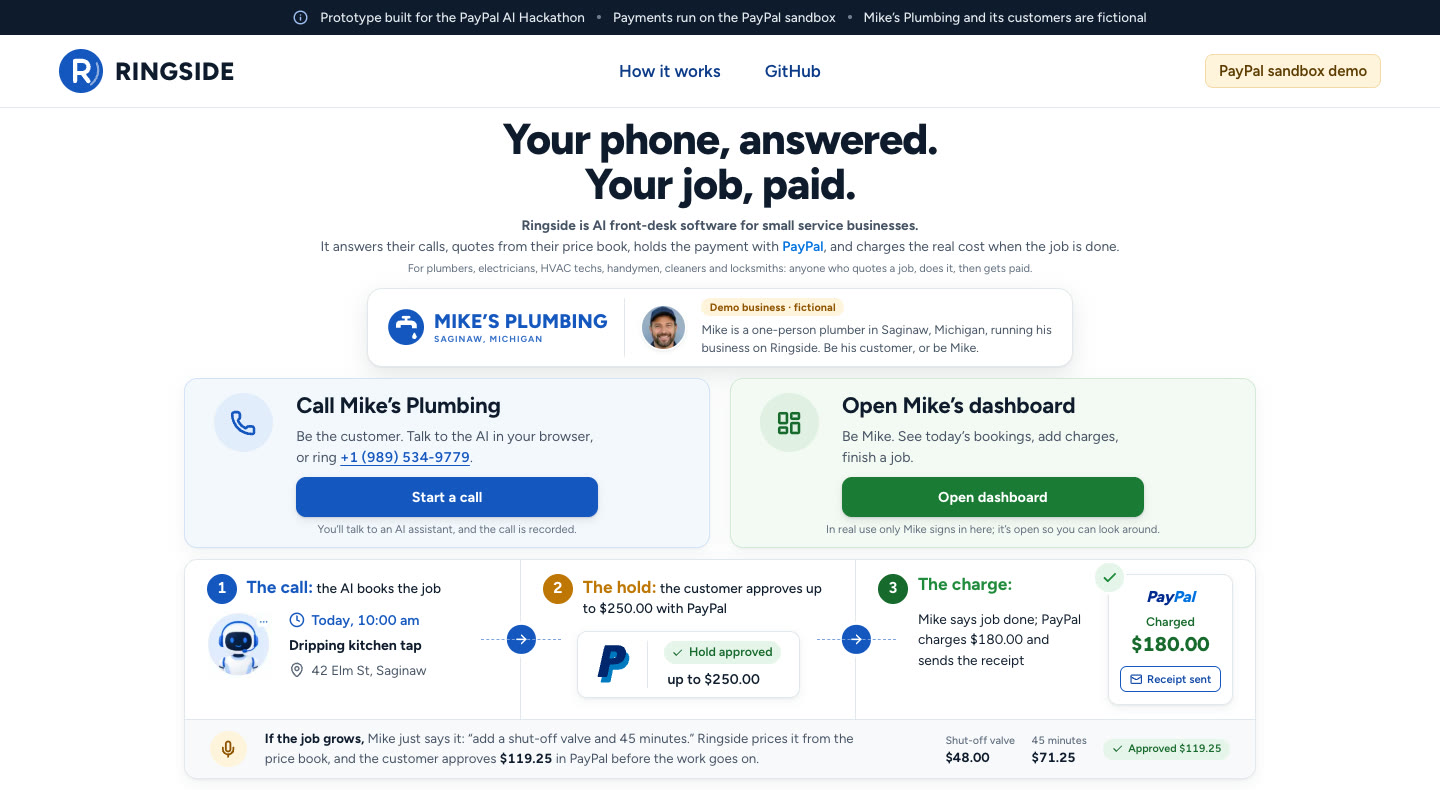
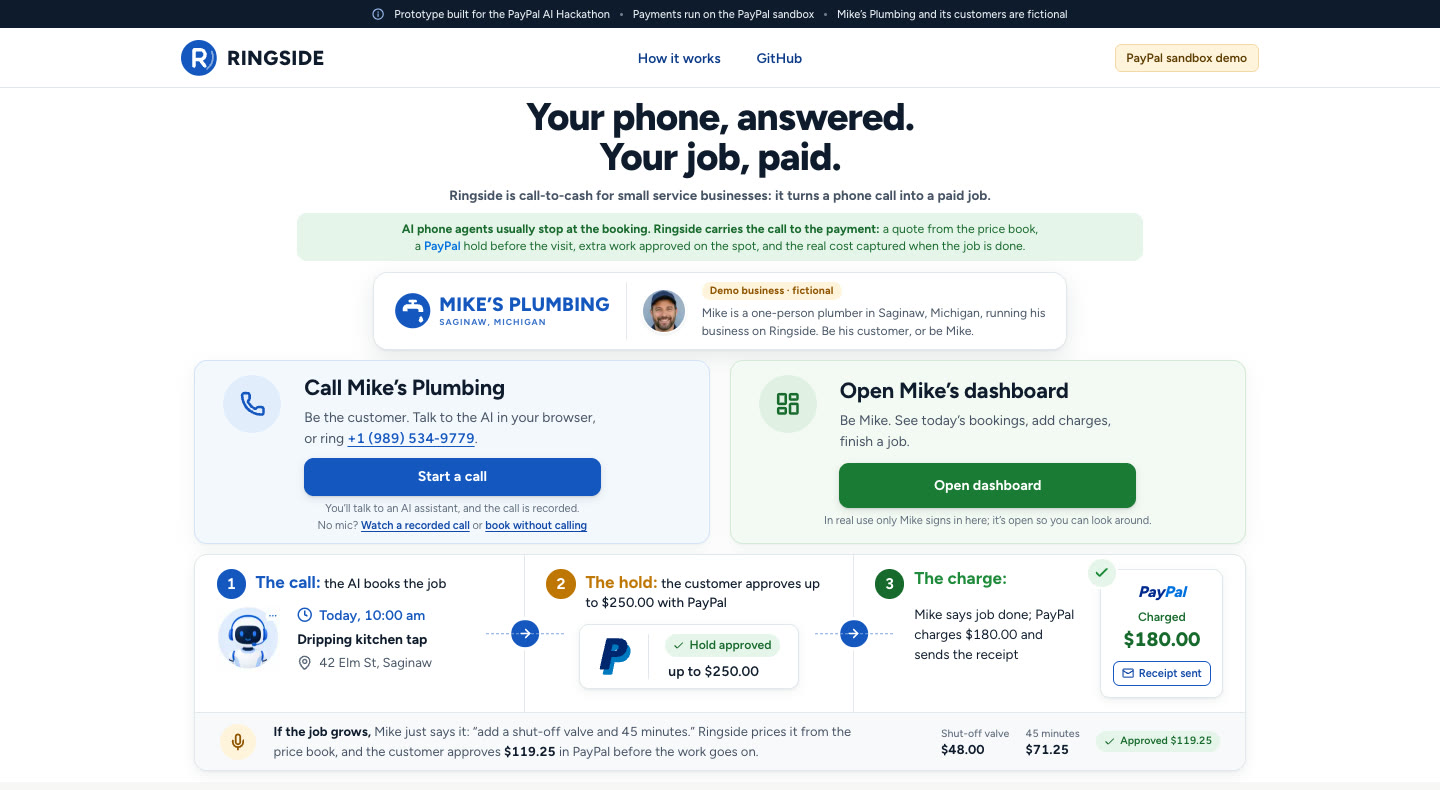
Pitch Ringside as call-to-cash and say plainly how it differs
Ringside now calls itself call-to-cash for small service businesses: it
turns a phone call into a paid job. "AI front desk" and "receptionist"
are gone everywhere, since that is the crowded category. The landing
says under the headline that AI phone agents usually stop at the
booking while Ringside carries the call to the payment: a quote from the
price book, a PayPal hold before the visit, extra work approved on the
spot and the real cost captured. It still fits one laptop screen, now
by scaling the whole page, never below 74%.

The README opens the same way and adds a "How it's different" table
against typical AI phone agents and field-service suites, with the
price range sourced. The banner, the link-preview image, the page title
and the landing screenshot carry the new line.

diff --git a/src/app/page.tsx b/src/app/page.tsx
@@ -8,13 +8,13 @@ import s from "./landing.module.css";
 
 const GITHUB = "https://github.com/padmanabhan-r/ringside";
 
-// One screen on any desk (owner, 2026-11-05): before the first paint, scale the page down just enough to fit the window,
-// never below 80% so text stays readable (a very short window scrolls instead). Phones keep their natural flow.
-const FIT_SCRIPT = `(function(){var m=document.getElementById("landing-main");if(!m)return;function fit(){m.style.zoom="";if(innerWidth<1024)return;var top=m.getBoundingClientRect().top+scrollY,need=document.documentElement.scrollHeight-top,z=(innerHeight-top)/need;if(z<1)m.style.zoom=String(Math.max(0.8,z*0.995));}fit();addEventListener("resize",fit);})();`;
+// One screen on any desk (owner, 2026-11-05): before the first paint, scale the whole page down just enough to fit the
+// window, never below 74% so text stays readable (a very short window scrolls instead). Phones keep their natural flow.
+const FIT_SCRIPT = `(function(){var m=document.getElementById("landing-page");if(!m)return;function fit(){m.style.zoom="";if(innerWidth<1024)return;var need=document.documentElement.scrollHeight,z=innerHeight/need;if(z<1)m.style.zoom=String(Math.max(0.74,z*0.985));}fit();addEventListener("resize",fit);})();`;
 
 export default function Home() {
   return (
-    <div className={`fs ${s.page}`}>
+    <div className={`fs ${s.page}`} id="landing-page" suppressHydrationWarning>
       <p className={s.notice}>
         <Info aria-hidden="true" className={s.noticeIcon} strokeWidth={2.25} />
         <span>Prototype built for the PayPal AI Hackathon</span>
@@ -38,22 +38,19 @@ export default function Home() {
         </div>
       </header>
 
-      <main className={s.main} id="landing-main" suppressHydrationWarning>
+      <main className={s.main} id="landing-main">
         <section className={s.hero} aria-labelledby="headline">
           <div className={s.heroText}>
             <h1 id="headline" className={s.headline}>
               <span>Your phone, answered.</span> <span>Your job, paid.</span>
             </h1>
             <p className={s.lede}>
-              <span className={s.ledeLine}>
-                <b>Ringside is AI front-desk software for small service businesses.</b>
-              </span>{" "}
-              It answers their calls, quotes from their price book, holds the payment with <b className={s.paypal}>PayPal</b>,
-              and charges the real cost when the job is done.
+              <b>Ringside is call-to-cash for small service businesses: it turns a phone call into a paid job.</b>
             </p>
-            <p className={s.forWho}>
-              For plumbers, electricians, HVAC techs, handymen, cleaners and locksmiths: anyone who quotes a job, does it,
-              then gets paid.
+            <p className={s.difference}>
+              <b>AI phone agents usually stop at the booking. Ringside carries the call to the payment:</b> a quote from the
+              price book, a <span className={s.paypal}>PayPal</span> hold before the visit, extra work approved on the spot,
+              and the real cost captured when the job is done.
             </p>
           </div>
         </section>

diff --git a/src/app/layout.tsx b/src/app/layout.tsx
@@ -7,7 +7,7 @@ const geist = Geist({ subsets: ["latin"], weight: ["400", "500", "600", "700"], 
 // The field-service world's friendly geometric sans (redesign 2026-11-05).
 const figtree = Figtree({ subsets: ["latin"], weight: ["400", "500", "600", "700", "800"], variable: "--font-ui" });
 
-const DESCRIPTION = "The AI front desk for small service businesses: it answers the call, books the job and holds the money with PayPal.";
+const DESCRIPTION = "Call-to-cash for small service businesses: Ringside turns a phone call into a paid job, holding the money with PayPal.";
 
 export const metadata: Metadata = {
   metadataBase: new URL("https://ringside-4bup.onrender.com"),
@@ -17,7 +17,7 @@ export const metadata: Metadata = {
   openGraph: {
     type: "website",
     siteName: "Ringside",
-    title: "Ringside: AI front-desk software for small service businesses",
+    title: "Ringside: call-to-cash for small service businesses",
     description: DESCRIPTION,
   },
   twitter: { card: "summary_large_image" },

diff --git a/src/app/landing.module.css b/src/app/landing.module.css
@@ -237,6 +237,22 @@
   text-wrap: balance;
 }
 
+.difference {
+  max-width: 108ch;
+  margin: 12px auto 0;
+  padding: 10px 16px;
+  border-radius: 12px;
+  background: var(--ok-tint);
+  color: var(--ok-ink);
+  font-size: 15.5px;
+  line-height: 1.45;
+  text-wrap: balance;
+}
+
+.difference b {
+  font-weight: 700;
+}
+
 .forWho {
   margin: 10px auto 0;
   max-width: 62ch;
@@ -1204,7 +1220,11 @@
   }
 
   .headline {
-    font-size: clamp(2rem, 6.6vh, 4rem);
+    font-size: clamp(2rem, 6vh, 3.7rem);
+  }
+
+  .lede {
+    max-width: 80ch;
   }
 
   .lede {
@@ -1293,6 +1313,12 @@
 }
 
 @media (min-width: 1024px) and (min-height: 600px) {
+  .difference {
+    margin-top: clamp(6px, 1.2vh, 12px);
+    padding: clamp(6px, 1vh, 10px) 16px;
+    font-size: clamp(14px, 1.9vh, 15.5px);
+  }
+
   .demoBox {
     margin: 0 auto;
     padding: clamp(8px, 1.4vh, 14px) 24px;

diff --git a/assets/src/banner.html b/assets/src/banner.html
@@ -32,7 +32,7 @@
   <div class="band">
     <div class="mark"><span class="r">R</span>RINGSIDE</div>
     <h1>Your phone, answered.<br><span>Your job, paid.</span></h1>
-    <p>AI front-desk software for small service businesses: it takes their calls, quotes from their price book, holds the money with PayPal and charges the real cost when the job is done.</p>
+    <p>Call-to-cash for small service businesses: it turns a phone call into a paid job. A quote from the price book, a PayPal hold before the visit, extra work approved on the spot, the real cost captured at the end.</p>
     <div class="chips"><span class="chip pp">PayPal sandbox</span><span class="chip ok">Prototype for the PayPal AI Hackathon</span></div>
   </div>
   <div class="art">

diff --git a/assets/src/og.html b/assets/src/og.html
@@ -42,7 +42,7 @@
       RINGSIDE
     </div>
     <h1>Your phone, answered.<span>Your job, paid.</span></h1>
-    <p class="what"><b>Ringside:</b> AI front-desk software for small service businesses</p>
+    <p class="what"><b>Ringside:</b> call-to-cash for small service businesses</p>
   </div>
   <p class="demo">Demo business: Mike’s Plumbing (fictional)<span class="dot"></span><span class="pp">PayPal sandbox</span></p>
   <div class="art">

diff --git a/src/components/brand.tsx b/src/components/brand.tsx
@@ -72,7 +72,7 @@ export function SandboxTag() {
 
 export function PoweredByRingside() {
   return (
-    <Link className={s.powered} href="/" title="Ringside: the AI front desk for small service businesses">
+    <Link className={s.powered} href="/" title="Ringside: call-to-cash for small service businesses">
       Powered by <b>RINGSIDE</b>
     </Link>
   );

diff --git a/README.md b/README.md
@@ -75,22 +75,40 @@
 
 </div>
 
-**Ringside is AI front-desk software for small service businesses**: the plumber, electrician, HVAC tech, cleaner or
-locksmith who is the business, the dispatcher and the cashier at once. A business signs up and gets its own AI phone
-agent, its price book, PayPal payments and a dashboard on its phone. Ringside answers the business's calls while the
-owner is on a job, quotes from the price book, holds the customer's money with PayPal, gets the customer's yes when the
-job grows on site, and charges the real cost when the work is done.
+**Ringside is call-to-cash for small service businesses: it turns a phone call into a paid job.** It is built for the
+plumber, electrician, HVAC tech, cleaner or locksmith who is the business, the dispatcher and the cashier at once. A
+business signs up and gets its own AI phone agent, its price book, PayPal payments and a dashboard on its phone. Ringside
+answers the business's calls while the owner is on a job, quotes from the price book, holds the customer's money with
+PayPal before the visit, gets the customer's yes when the job grows on site, and charges the real cost when the work is
+done.
 
 **The demo runs one example business on Ringside: Mike's Plumbing**, a fictional one-person plumber in Saginaw,
 Michigan. Its customers, jobs and calls are fictional too. Ringside is a prototype built for the PayPal AI Hackathon and
 runs on the PayPal sandbox.
 
-<img src="assets/screens/landing.jpg" width="100%" alt="Ringside's landing page: 'Ringside is AI front-desk software for small service businesses', then the demo business, Mike's Plumbing, with two doors: call it as a customer, or open the owner's dashboard; below, the call, the hold, the charge and the change order on one job">
+<img src="assets/screens/landing.jpg" width="100%" alt="Ringside's landing page: 'Ringside is call-to-cash for small service businesses: it turns a phone call into a paid job', how it differs from AI phone agents that stop at the booking, then the demo business, Mike's Plumbing, with two doors: call it as a customer, or open the owner's dashboard; below, the call, the hold, the charge and the change order on one job">
 
 **For the judges:** open the [live demo](https://ringside-4bup.onrender.com) and try Ringside as the demo business's
 customer: call Mike's Plumbing in the browser or on **[+1 (989) 534-9779](tel:+19895349779)**, then approve the hold with
 PayPal's sandbox test card `4012 0000 3333 0026` (any future expiry and code; no PayPal account needed). Then open the
 owner's dashboard to add charges and finish the job. No mic? **Book without calling** on the call page runs the same quote and PayPal hold from a short form, and a recorded call shows the conversation.
+
+## How it's different
+
+AI phone agents for trades are everywhere now, typically $99 to $299 a month[^price], and they stop at the booking.
+Field-service suites take payments, as office paperwork after the job. Ringside carries the call all the way to the
+payment.
+
+| | Most AI phone agents for trades | Field-service suites | Ringside |
+|---|---|---|---|
+| Answers the call around the clock | Yes | As an add-on | Yes |
+| Quotes a price on the call, from the business's own price book | Usually not | No | Yes, a range, read back to the caller |
+| Secures the payment before the visit | No | Usually not | Yes, a PayPal hold for the top of the range |
+| Extra work found on site, approved and paid before work goes on | No | A change order, usually billed later | Yes: the owner says it, the customer approves it in PayPal |
+| Charges the real cost, never more than the customer approved | No | An invoice after the job | Yes, captured from the hold; the rest is released |
+| Receipt | No | Yes | Yes, a PayPal invoice marked paid |
+
+[^price]: Typical small-business pricing from [The AI Savvy's 2026 overview](https://theaisavvy.com/blog/ai-receptionist-for-plumbers-and-hvac-companies/california/san-diego); a few start lower with call limits.
 
 ## How it works
 

diff --git a/PRODUCT.md b/PRODUCT.md
@@ -20,7 +20,7 @@ web
 
 ## Product Purpose
 
-Ringside is an AI field-service employee for small service businesses. It answers the call, quotes from the rate
+Ringside is call-to-cash for small service businesses: it turns a phone call into a paid job. (Owner, 2026-11-05: never pitch it as an "AI front desk" or "receptionist"; those are the crowded category. The difference is the money: a PayPal hold before the visit, extra work approved on the spot, the real cost captured.) It answers the call, quotes from the rate
 card, books a slot, holds the money with a PayPal authorization, gets the customer's approval when the job grows on
 site, and captures the final amount when the owner says the job is done.
 
